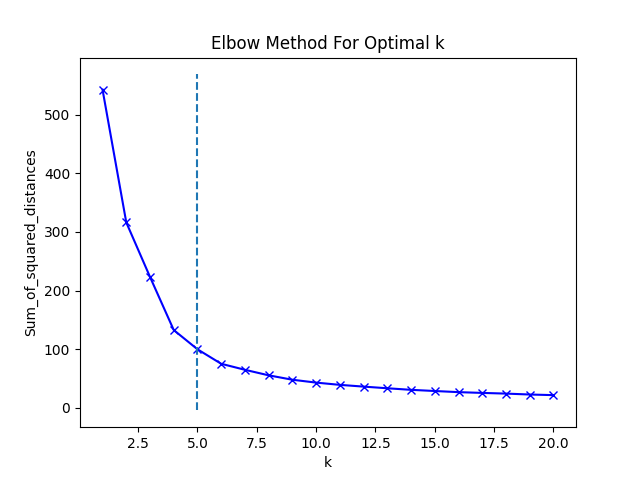
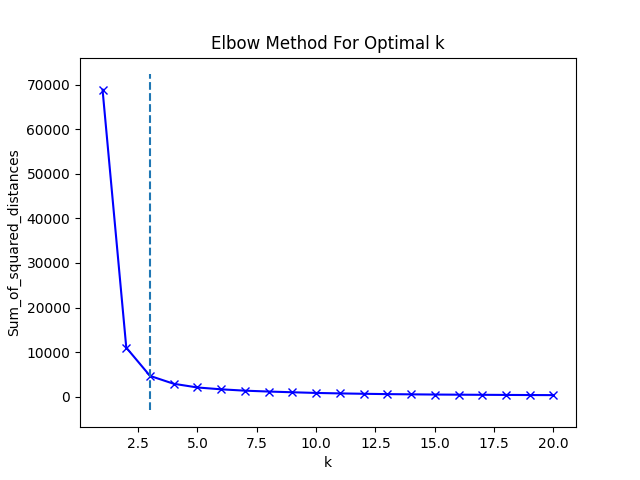
Added color histogram, and updated optimalNum
since we're only looking for the closest color to red and all the shades of red are the same, setting k to optimalNum + 2 makes it more consistent.

diff --git a/Main.py b/Main.py
@@ -1,12 +1,14 @@
 # imports
 import math
 import cv2
+import cv2
 import numpy as np
 from matplotlib import pyplot as plt
 from sklearn import cluster
 from kneed import KneeLocator
 from sklearn.cluster import KMeans
 from sklearn.preprocessing import MinMaxScaler
+
 
 # turning the BGR into hex
 def encodeHex(color):
@@ -26,14 +28,14 @@ def simplifyData(img):
 
 
 # finding the knee/elbow of the graph
-def elbowGraph(data_transformed, rangeNum):
+def elbowGraph(transformedData, rangeNum):
     SumOfSquaredDistances = []
 
     x = range(1, rangeNum)
     for i in x:
         print(i)
         km = KMeans(n_clusters=i)
-        km.fit(data_transformed)
+        km.fit(transformedData)
         SumOfSquaredDistances.append(km.inertia_)
     kn = KneeLocator(x, SumOfSquaredDistances, curve='convex', direction='decreasing')
 
@@ -46,13 +48,16 @@ def elbowGraph(data_transformed, rangeNum):
     plt.vlines(kn.knee, plt.ylim()[0], plt.ylim()[1], linestyles='dashed')
     plt.savefig('ElbowGraph.png')
     plt.show()
+    plt.close()
     return kn.knee
+
 
 # function to convert hex into rgb
 def hexToRgb(value):
     value = value.lstrip('#')
     lv = len(value)
     return tuple(int(value[i:i + lv // 3], 16) for i in range(0, lv, lv // 3))
+
 
 # rgb -> hsv
 def rgbToHsv(rgb):
@@ -87,42 +92,42 @@ def findPos(contours, contourIndex):
     propXCoord = contours[contourIndex].x
     xPosList.sort()
 
-    return xPosList.index(propXCoord) + 1
+    pos = xPosList.index(propXCoord) + 1
+
+    if pos == 1:
+        print("left")
+    elif pos==2:
+        print("mid")
+    else:
+        print("right")
+
+    return pos
 
 
-def closest(colors, color):
-    colors = np.array(colors)
-    color = np.array(color)
-    distances = np.sqrt(np.sum((colors - color) ** 2, axis=1))
-    index_of_smallest = np.where(distances == np.amin(distances))
-    smallest_distance = colors[index_of_smallest]
-    return smallest_distance
-
-
-def findClosestColor(rgbList, realcolor):
+def findClosestColor(rgbList, realColor):
     disValList = []
     for color2 in rgbList:
-        r = float(color2[0] - realcolor[0])
-        g = float(color2[1] - realcolor[1])
-        b = float(color2[2] - realcolor[2])
+        r = float(color2[0] - realColor[0])
+        g = float(color2[1] - realColor[1])
+        b = float(color2[2] - realColor[2])
         disVal = math.sqrt(((abs(r)) ** 2) + ((abs(g)) ** 2) + ((abs(b)) ** 2))
         disValList.append(disVal)
     return disValList
 
 
 # TO READ PRESAVED IMAGE
-img = cv2.imread('pic5.png') / 255
+img = cv2.imread('pic3.png') / 255
 
 # READING CAMERA INIT FRAME
 # img = cv2.imread('FRAME .jpg') / 255
 img = cv2.resize(img, (640, 480))
 
+# blurring
 blurImg = cv2.GaussianBlur(img, (15, 15), 0)
 
 # reshape images
 h, w, c = blurImg.shape
 img2 = blurImg.reshape(h * w, c)
-# Resize the image
 
 # max k value to check for
 rangeNum = 21
@@ -131,7 +136,7 @@ rangeNum = 21
 optimalNum = elbowGraph(simplifyData(img2), rangeNum)
 
 # set number of colors
-number = optimalNum
+number = optimalNum + 2
 
 # clustering into KMeans
 kmeans_cluster = cluster.KMeans(n_clusters=number)
@@ -164,9 +169,15 @@ HSVList = []
 hexList = []
 
 # converting color output and printing to hex and RGB
+fig = plt.figure()
 for i, uni in enumerate(unique):
     color = uni[0]
     count = uni[1]
+
+    plt.bar(i, count, color=encodeHex(color))
+
+
+    color = uni[0]
     hexColor = encodeHex(color)
     hexList.append(hexColor)
     RGB = hexToRgb(hexColor)
@@ -182,7 +193,10 @@ for i, uni in enumerate(unique):
     print("HSV:")
     print([h, s, v])
     print("===")
-
+# show and save plot
+plt.show()
+plt.savefig('colorHistogram.png')
+plt.close()
 # set to false if teamColor is blue
 isRed = True
 
